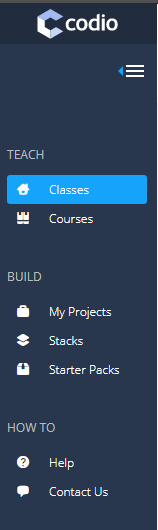
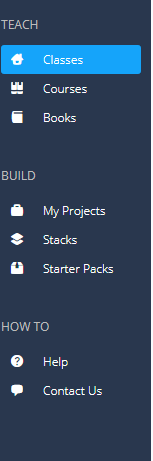
qa the codio dashboard

diff --git a/source/docs/dashboard/account/navigation.html.md b/source/docs/dashboard/account/navigation.html.md
@@ -15,7 +15,8 @@ Here are the main options from the dashboard.
 <img alt="dashboard" src="/img/docs/dashboard.png" class="simple"/>
 
 - **Classes**: this is where you administer classes and assign projects and courses to students. [About classes](/docs/classes).
-- **Courses**: courses are teaching materials that are nicely organized for repeated teaching of content from semester to semester (or term to term, year to year). Course Units can be single Codio projects or a mapping to a part of a Codio book. [About courses](/docs/courses/course-overview).
+- **Courses**: courses are teaching materials that are nicely organized for repeated teaching of content from semester to semester (or term to term, year to year). Course Units can be single Codio projects or a mapping to a part of a Codio book. [About courses](/docs/courses/introduction/).
+- **Books**: books lets you build a complete book, with chapters, sections and pages that can be nested to any depth to form a table of contents and associated content that mirrors a normal book structure. Parts of a book can then be mapped to course units for class assignments. [About books](/docs/books)
 - **My Projects**: a project is a cloud based server with the Codio IDE attached. It is a great place to experiment. You can create as many as you like and configure you server (box) from the command line exactly as you would with any other server. [About projects](/docs/project/what-is-a-project).
 - **Stacks**: Stacks are templated snapshots of a project's software configuration and are a very important and powerful feature of Codio. If you are assigning content to classes of students, it is very important you have a full understanding of stacks. [About stacks](/docs/project/stacks/stack-overview).
 - **Starter Packs**: a Starter Pack is a templated snapshot of a project's code workspace. Additionally a stack is specified. The result is an instantly startable snapshot of a fully configured environment. [About starter packs](/docs/project/packs/overview).

diff --git a/source/docs/dashboard/student/dyslexia.html.md b/source/docs/dashboard/student/dyslexia.html.md
@@ -10,10 +10,10 @@ Codio has a built in dyslexia support feature. If you have students who would pr
 
 1. Open the unit they are working on.
 
-1. From the menu at the top right of the screen, choose **Settings**, then **Theme**, then select the **Dyslexic** option. 
-<img alt="authtoken" src="/img/docs/what_students_do/settings.png" class="simple"/>
+1. From the menu at the top right of the screen, select the setting icon (the gear icon), then **Theme**, then select the **Dyslexic** option. 
+<img alt="authtoken" src="/img/docs/settings.png" class="simple"/>
 
 1. The screen should now display like this:
-<img alt="authtoken" src="/img/docs/what_students_do/dyslexiasupport/dyslexicview.png" class="simple"/>
+<img alt="authtoken" src="/img/docs/dyslexicview.png" class="simple"/>
 
 

diff --git a/source/docs/dashboard/student/playmode.html.md b/source/docs/dashboard/student/playmode.html.md
@@ -20,7 +20,7 @@ Within the player various options can be controlled by the user
 
 - **Navigation Buttons** allows the user to navigate forward/backward in the content.
 - **Settings** allows the user to change the Theme (light/dyslexic), Mark as Complete, change the font size, reset both the theme and fonts and to restore the current files (see below). See [Dyslexia Support](/docs/dashboard/student/dyslexia/) section
-- **[Show/Hide Section List Hamburger Icon](/docs/content/authoring/collapse/)** allows the user to show/hide the section list.
+- **[Show/Hide Section List Hamburger Icon](/docs/content/authoring/guides/collapse/)** allows the user to show/hide the section list.
 
 <a name="restore"></a>
 

diff --git a/source/docs/dashboard/student/password.html.md b/source/docs/dashboard/student/password.html.md
@@ -16,4 +16,3 @@ If you wish to change your password (you should also do this if you forgot your 
 1. About halfway down the **Account** page is the **Change Password** area. The student should enter their new password, and then click **Update password**.
 <img alt="authtoken" src="/img/docs/what_students_do/forgotpassword/change.png" class="simple"/>
 
-1. This will then send an email to your registered email addresss containing a link for you to click. Clicking on this link will then send you another email containing the new password you can then use to login. 

diff --git a/source/docs/dashboard/create/public_private.html.md b/source/docs/dashboard/create/public_private.html.md
@@ -29,4 +29,4 @@ See also:
 - [Creating and importing a project](/docs/project/creating/)
 - [Creating a Stack](/docs/project/stacks/new/)
 - [Creating a Pack](/docs/project/packs/create/)
-- [Creating a course](/docs/courses/course-create)
+- [Creating a course](/docs/courses/manage/course-create)
